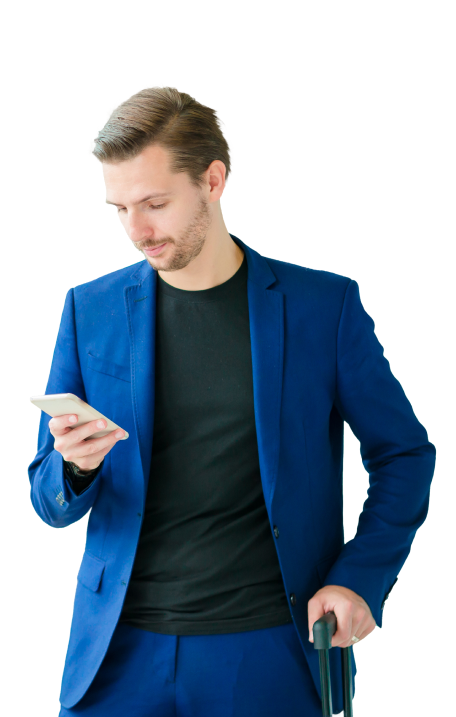
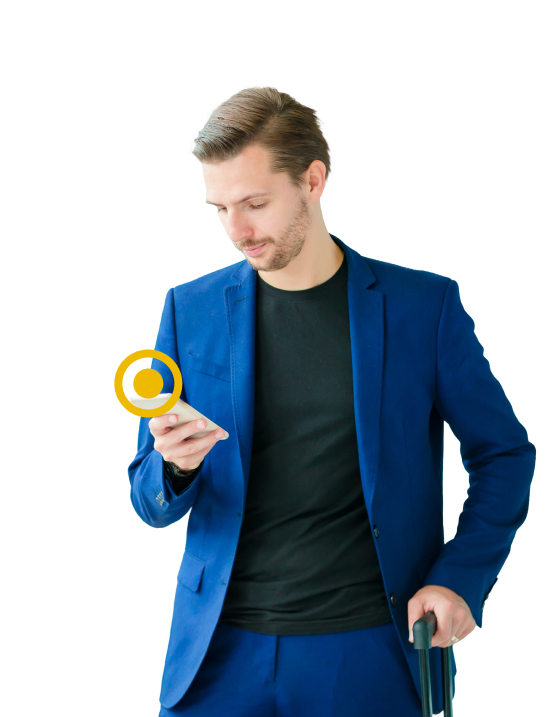
create partner section

diff --git a/src/components/ui/PartnerSection.js b/src/components/ui/PartnerSection.js
@@ -1,0 +1,58 @@
+import Image from 'next/image';
+import Link from 'next/link';
+import React from 'react';
+
+const PartnerSection = () => {
+  return (
+    <div className='flex flex-col my-8 mx-4 border-2 border-[#EFEBE7] rounded-2xl lg:mx-24 lg:flex-row'>
+      <div className='relative overflow-hidden lg:w-1/2'>
+        <Image
+          src="/student.png"
+          width={790}
+          height={660}
+          alt='Student with phone'
+          className='relative z-50 -right-32 mt-8 lg:right-0'
+        />
+        <Image
+          src="/render.png"
+          width={450}
+          height={570}
+          alt='Render bitcoins logos'
+          className='absolute top-0 right-0 z-10'
+        />
+      </div>
+      <div className='pt-8 px-24 pb-[74px] lg:px-12 lg:w-1/2'>
+        <h2 className='text-5xl font-bold'>
+          Somos el mejor aliado para {" "}
+          <span className='text-[#EABC4D]'>potencializar tus finanzas</span>
+        </h2>
+        <p className='text-[32px] leading-9 mt-16'>
+          En CXP estamos motivados en potencializar la adopción masiva
+          de las criptomonedas facilitándote todas nuestras herramientas
+          y conocimientos a nuestra comunidad, nuestro equipo de expertos
+          con más de 10 años de experiencia ha desarrollado herramientas
+          para llevar tus finanzas al siguiente nivel.
+        </p>
+        <div className='flex justify-center items-center gap-20 pt-12'>
+          <Link href="/#">
+            <svg xmlns="http://www.w3.org/2000/svg" width="43" height="35" viewBox="0 0 43 35" fill="none">
+              <path d="M38.9358 0.307448C33.3954 2.62192 9.63918 12.5447 3.0748 15.2496C-1.32788 16.9831 1.25004 18.606 1.25004 18.606C1.25004 18.606 5.00791 19.9052 8.22932 20.8805C11.4507 21.8545 13.1685 20.7726 13.1685 20.7726L28.307 10.4861C33.6755 6.80449 32.3872 9.83582 31.0989 11.1363C28.307 13.9518 23.6902 18.3902 19.8253 21.9638C18.1076 23.4801 18.9665 24.7793 19.7183 25.4282C22.5103 27.8106 30.1344 32.6834 30.5625 33.0085C32.8312 34.6274 37.292 36.9579 37.9712 32.0331L40.6561 15.035C41.515 9.29618 42.3739 3.99035 42.4809 2.47535C42.8033 -1.20622 38.9371 0.30878 38.9371 0.30878L38.9358 0.307448Z" fill="#EFEBE7" />
+            </svg>
+          </Link>
+          <Link href="/#">
+            <svg xmlns="http://www.w3.org/2000/svg" width="47" height="36" viewBox="0 0 47 36" fill="none">
+              <path d="M39.4633 3.01085C36.4429 1.58324 33.2521 0.570146 29.9739 0C29.5586 0.746726 29.088 1.75084 28.7602 2.56192C25.2736 2.02768 21.7301 2.02768 18.2435 2.56192C17.8705 1.68649 17.4553 0.830527 16.9963 0C13.7137 0.570146 10.52 1.58773 7.49815 3.02432C1.50988 12.193 -0.116134 21.1463 0.693958 29.9603C4.2097 32.6435 8.14797 34.6846 12.3369 35.9955C13.2795 34.6831 14.1144 33.2929 14.8327 31.8399C13.4719 31.3176 12.1576 30.6726 10.9075 29.9139C11.2339 29.6611 11.5501 29.4052 11.856 29.1493C19.227 32.7303 27.7723 32.7303 35.1433 29.1493C35.4551 29.4141 35.78 29.67 36.1035 29.9184C34.8504 30.6816 33.5333 31.3296 32.1696 31.8533C32.8864 33.3049 33.7213 34.6921 34.6639 36C38.8557 34.6936 42.794 32.6525 46.3068 29.9648C47.2553 19.7441 44.6692 10.8732 39.4618 3.01085H39.4633ZM15.8555 24.5462C13.5855 24.5462 11.722 22.4108 11.722 19.7875C11.722 17.1642 13.5433 15.0123 15.8555 15.0123C18.1678 15.0123 20.0138 17.1478 19.9934 19.774C19.973 22.4003 18.1678 24.5447 15.8555 24.5447V24.5462ZM31.138 24.5462C28.868 24.5462 27.0045 22.4108 27.0045 19.7875C27.0045 17.1642 28.8257 15.0123 31.138 15.0123C33.4503 15.0123 35.2963 17.1478 35.2715 19.774C35.2467 22.4003 33.4503 24.5447 31.138 24.5447V24.5462Z" fill="#EFEBE7" />
+            </svg>
+          </Link>
+          <Link href="/#">
+            <svg xmlns="http://www.w3.org/2000/svg" width="33" height="35" viewBox="0 0 33 35" fill="none">
+              <path d="M12.29 0V7.86805H16.5005V4.06975H20.711V0H32.5V11.6664H28.5703V15.4656H24.6407L24.6224 19.5502L28.5703 19.5353V23.3336H32.5V35H20.711V30.9303H16.5005V27.1319H12.29V35H0.5V0H12.29Z" fill="#EFEBE7" />
+            </svg>
+          </Link>
+        </div>
+      </div>
+    </div>
+  );
+};
+
+export default PartnerSection;

diff --git a/src/components/ui/FeatureContainer.js b/src/components/ui/FeatureContainer.js
@@ -16,7 +16,7 @@ const FeatureContainer = ({ src }) => {
           alt='Features Gallery Image'
         />
       </div>
-      <div className='flex flex-col gap-4 p-4 text-[#EFEBE7]'>
+      <div className='flex flex-col gap-4 p-4'>
         <h3 className='text-2xl font-bold lg:text-xl'>Lorem ipsum dolor sit amet.</h3>
         <p className='text-xl leading-5 lg:text-lg lg:leading-5'>
           Lorem ipsum dolor sit amet, consectetur adipiscing elit. Nunc vulputate libero et velit interdum, ac aliquet odio mattis. Class aptent taciti sociosqu ad litora torquent per conubia nostra, per inceptos himenaeos. Curabitur tempus urna at turpis condimentum lobortis.

diff --git a/src/app/page.js b/src/app/page.js
@@ -3,6 +3,7 @@ import FeatureSection from "@/components/ui/FeatureSection";
 import FeaturesSection from "@/components/ui/FeaturesSection";
 import Hero from "@/components/ui/Hero";
 import LearnSection from "@/components/ui/LearnSection";
+import PartnerSection from "@/components/ui/PartnerSection";
 import ReviewsSections from "@/components/ui/ReviewsSections";
 import TransformFinanceSection from "@/components/ui/TransformFinanceSection";
 
@@ -16,6 +17,7 @@ export default function Home() {
       <TransformFinanceSection />
       <LearnSection />
       <ReviewsSections />
+      <PartnerSection />
     </div>
   );
 }

diff --git a/src/components/ui/ReviewsSections.js b/src/components/ui/ReviewsSections.js
@@ -25,7 +25,7 @@ const ReviewsSections = () => {
         />
       </div>
       <div className='flex flex-col gap-8 lg:w-1/2'>
-        <h4 className='text-4xl font-bold mt-8'>Lo que dicen nuestros Usuarios</h4>
+        <h4 className='text-4xl font-bold mt-8 lg:mt-0'>Lo que dicen nuestros Usuarios</h4>
         <div className='flex flex-col gap-8'>
           {reviewsData.map(({ reviewerName, job }) => (
             <ReviewContainer

diff --git a/src/app/globals.css b/src/app/globals.css
@@ -10,7 +10,7 @@
 @media (prefers-color-scheme: dark) {
   :root {
     --background: #2C2C2C;
-    --foreground: #ededed;
+    --foreground: #EFEBE7;
   }
 }
 
